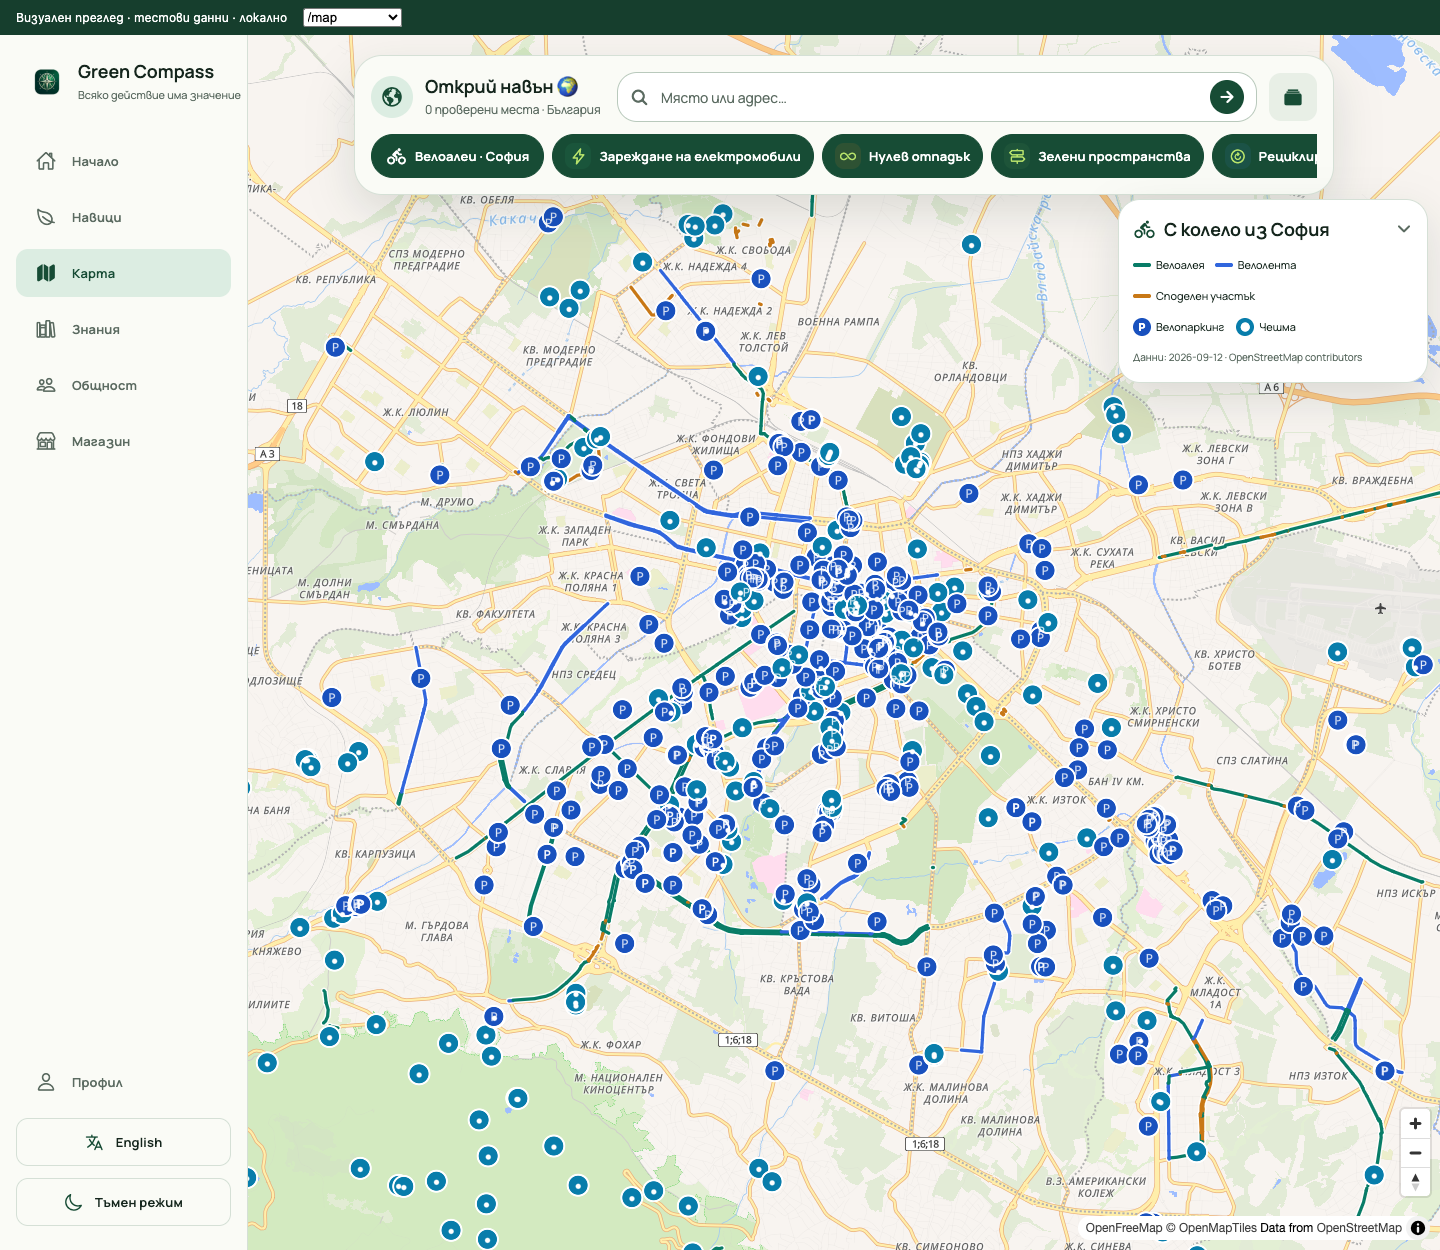
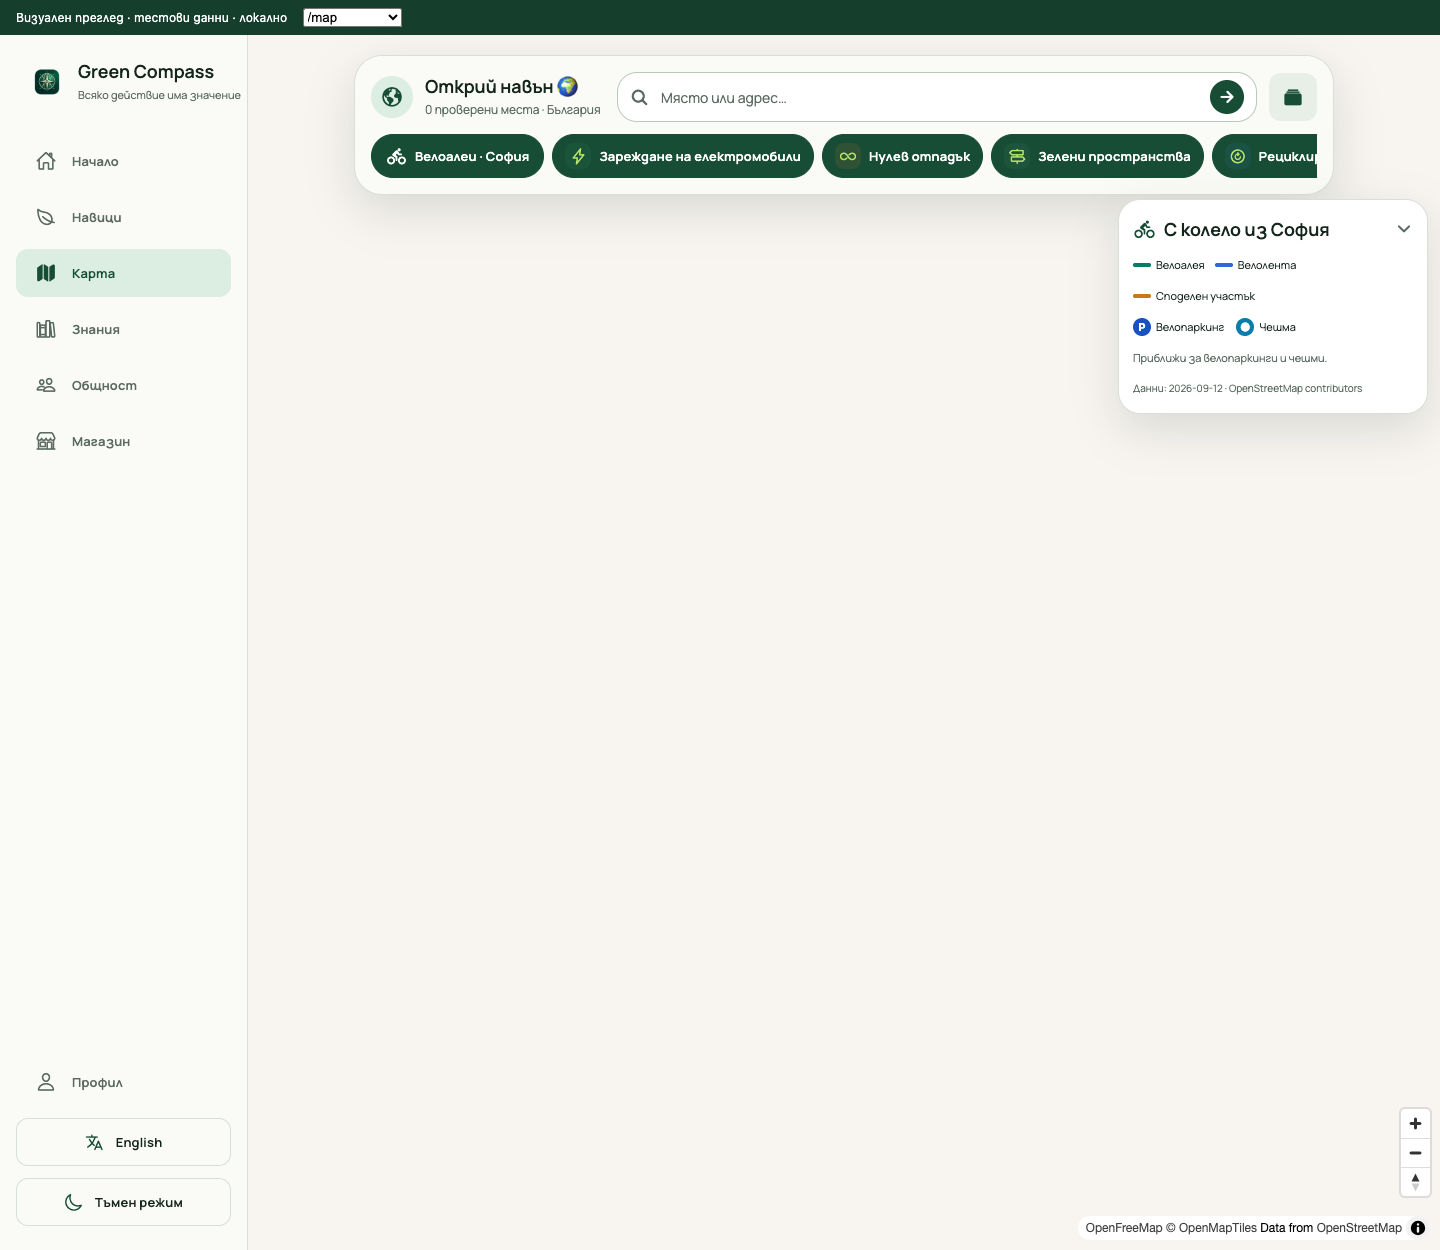
fix: keep cycling overview clear until zoomed in

diff --git a/src/components/map/CyclingPanel.tsx b/src/components/map/CyclingPanel.tsx
@@ -18,6 +18,7 @@ export default function CyclingPanel({ selected, showPlaces, onTogglePlaces, onC
     <Pressable accessibilityRole="button" accessibilityState={{ expanded }} accessibilityLabel={t('Cycling map legend and details', 'Легенда и подробности за велокартата')} onPress={() => setExpanded(value => !value)} style={{ minHeight: 30, flexDirection: 'row', alignItems: 'center', gap: 8 }}><Ionicons name="bicycle" size={23} color={theme.colors.primary} /><Text style={[theme.typography.h3, { color: theme.colors.text, flex: 1 }]}>{t('Sofia by bike', 'С колело из София')}</Text><Ionicons name={expanded ? 'chevron-up' : 'chevron-down'} size={18} color={theme.colors.textMuted} /></Pressable>
     <View style={{ flexDirection: 'row', flexWrap: 'wrap', gap: 10 }}>{kinds.map(kind => <View key={kind} style={{ flexDirection: 'row', gap: 5, alignItems: 'center' }}><View style={{ width: 18, height: 4, borderRadius: 2, backgroundColor: CYCLING_COLORS[kind] }} /><Text style={[theme.typography.bodySmall, { fontSize: 11, color: theme.colors.text }]}>{CYCLING_LABELS[kind][locale]}</Text></View>)}</View>
     {showPlaces && placeKinds.length ? <View style={{ flexDirection: 'row', gap: 12 }}>{placeKinds.map(kind => <View key={kind} style={{ flexDirection: 'row', alignItems: 'center', gap: 5 }}><View style={{ width: 18, height: 18, borderRadius: 9, alignItems: 'center', justifyContent: 'center', backgroundColor: CYCLING_COLORS[kind] }}><Text style={{ color: '#FFFFFF', fontSize: 11, fontWeight: '700' }}>{kind === 'parking' ? 'P' : '●'}</Text></View><Text style={[theme.typography.bodySmall, { color: theme.colors.text, fontSize: 11 }]}>{CYCLING_LABELS[kind][locale]}</Text></View>)}</View> : null}
+    {showPlaces ? <Text style={[theme.typography.bodySmall, { fontSize: 11, color: theme.colors.textMuted }]}>{t('Zoom in to see parking and fountains.', 'Приближи за велопаркинги и чешми.')}</Text> : null}
     {selected ? <View style={{ paddingTop: 8, borderTopWidth: 1, borderColor: theme.colors.border, gap: 7 }}>
       <View style={{ flexDirection: 'row', alignItems: 'center', gap: 8 }}><Text style={[theme.typography.label, { color: theme.colors.text, flex: 1 }]}>{selected.properties.name || CYCLING_LABELS[selected.properties.kind][locale]}</Text><Pressable accessibilityRole="button" accessibilityLabel={t('Close details', 'Затвори подробностите')} onPress={onClearSelection} hitSlop={10}><Ionicons name="close" size={20} color={theme.colors.textMuted} /></Pressable></View>
       <Text style={[theme.typography.bodySmall, { color: theme.colors.textMuted }]}>{CYCLING_LABELS[selected.properties.kind][locale]}{selected.properties.capacity ? ` · ${selected.properties.capacity} ${t('spaces', 'места')}` : ''}</Text>

diff --git a/src/components/map/MapLibreRenderer.web.tsx b/src/components/map/MapLibreRenderer.web.tsx
@@ -99,8 +99,8 @@ export default function MapLibreRenderer(props: MapRendererProps) {
       map.addLayer({ id: 'cycling-lines', type: 'line', source: CYCLING_SOURCE, layout: { visibility, 'line-cap': 'round', 'line-join': 'round' }, paint: { 'line-color': CYCLING_LINE_COLOR as any, 'line-width': ['interpolate', ['linear'], ['zoom'], 10, 2, 15, 5] } });
       map.addSource(CYCLING_PLACES_SOURCE, { type: 'geojson', data: CYCLING_PLACES });
       const placeVisibility = latest.current.cyclingVisible && latest.current.cyclingPlacesVisible !== false ? 'visible' : 'none';
-      map.addLayer({ id: 'cycling-places', type: 'circle', source: CYCLING_PLACES_SOURCE, minzoom: 12, layout: { visibility: placeVisibility }, paint: { 'circle-color': ['match', ['get', 'kind'], 'parking', '#1951BE', '#087DAB'], 'circle-radius': 10, 'circle-stroke-color': '#FFFFFF', 'circle-stroke-width': 2 } });
-      map.addLayer({ id: 'cycling-place-labels', type: 'symbol', source: CYCLING_PLACES_SOURCE, minzoom: 12, layout: { visibility: placeVisibility, 'text-font': ['Noto Sans Regular'], 'text-field': ['match', ['get', 'kind'], 'parking', 'P', '●'], 'text-size': 12, 'text-allow-overlap': true }, paint: { 'text-color': '#FFFFFF' } });
+      map.addLayer({ id: 'cycling-places', type: 'circle', source: CYCLING_PLACES_SOURCE, minzoom: 14, layout: { visibility: placeVisibility }, paint: { 'circle-color': ['match', ['get', 'kind'], 'parking', '#1951BE', '#087DAB'], 'circle-radius': 10, 'circle-stroke-color': '#FFFFFF', 'circle-stroke-width': 2 } });
+      map.addLayer({ id: 'cycling-place-labels', type: 'symbol', source: CYCLING_PLACES_SOURCE, minzoom: 14, layout: { visibility: placeVisibility, 'text-font': ['Noto Sans Regular'], 'text-field': ['match', ['get', 'kind'], 'parking', 'P', '●'], 'text-size': 12, 'text-allow-overlap': true }, paint: { 'text-color': '#FFFFFF' } });
       map.addSource(LOCATIONS_SOURCE, { type: 'geojson', data: locationsToFeatureCollection(latest.current.locations), cluster: true, clusterRadius: 54, clusterMaxZoom: 13 });
       map.addLayer({ id: 'location-clusters', type: 'circle', source: LOCATIONS_SOURCE, filter: ['has', 'point_count'], paint: { 'circle-color': ['step', ['get', 'point_count'], '#76D49B', 25, '#B8E36B', 60, '#F0B15D'], 'circle-radius': ['step', ['get', 'point_count'], 19, 25, 24, 60, 29], 'circle-stroke-width': 3, 'circle-stroke-color': '#FFFFFF' } });
       map.addLayer({ id: 'cluster-count', type: 'symbol', source: LOCATIONS_SOURCE, filter: ['has', 'point_count'], layout: { 'text-field': ['get', 'point_count_abbreviated'], 'text-size': 13 }, paint: { 'text-color': '#0B1711' } });

diff --git a/src/components/map/MapLibreRenderer.native.tsx b/src/components/map/MapLibreRenderer.native.tsx
@@ -85,8 +85,8 @@ export default function MapLibreRenderer(props: MapRendererProps) {
           <LineLayer id="cycling-lines" style={{ lineColor: CYCLING_LINE_COLOR as any, lineWidth: ['interpolate', ['linear'], ['zoom'], 10, 2, 15, 5], lineCap: 'round', lineJoin: 'round' }} />
         </ShapeSource>
         {props.cyclingPlacesVisible !== false ? <ShapeSource id="green-compass-cycling-places" shape={CYCLING_PLACES} hitbox={{ width: 32, height: 32 }} onPress={event => { const id = event.features[0]?.properties?.id; if (id) props.onCyclingFeaturePress?.(String(id)); }}>
-          <CircleLayer id="cycling-places" minZoomLevel={12} style={{ circleColor: ['match', ['get', 'kind'], 'parking', '#1951BE', '#087DAB'], circleRadius: 10, circleStrokeColor: '#FFFFFF', circleStrokeWidth: 2 }} />
-          <SymbolLayer id="cycling-place-labels" minZoomLevel={12} style={{ textFont: ['Noto Sans Regular'], textField: ['match', ['get', 'kind'], 'parking', 'P', '●'], textSize: 12, textColor: '#FFFFFF', textAllowOverlap: true }} />
+          <CircleLayer id="cycling-places" minZoomLevel={14} style={{ circleColor: ['match', ['get', 'kind'], 'parking', '#1951BE', '#087DAB'], circleRadius: 10, circleStrokeColor: '#FFFFFF', circleStrokeWidth: 2 }} />
+          <SymbolLayer id="cycling-place-labels" minZoomLevel={14} style={{ textFont: ['Noto Sans Regular'], textField: ['match', ['get', 'kind'], 'parking', 'P', '●'], textSize: 12, textColor: '#FFFFFF', textAllowOverlap: true }} />
         </ShapeSource> : null}
       </> : null}
       <ShapeSource

diff --git a/docs/reviews/2026-09-12-validation.md b/docs/reviews/2026-09-12-validation.md
@@ -37,7 +37,7 @@
 
 В проверените десет основни изгледа при 1440 и 390 px всички изображения се заредиха; ширината на документа съвпада с прозореца. Хоризонталните списъци с категории остават умишлено превъртащи се. Проверени са също зрелият пейзаж на екосистемата, видов профил и тъмна тема на общността. След визуалния преглед са поправени изрязването на илюстрациите на телефон, припокриването на плаващите контроли, размерът на дългото заглавие на дневния урок и контрастът на иконите в тъмна тема.
 
-Картата в прегледа използва действителния MapLibre компонент, базовата карта от OpenFreeMap и реалните 1799 картографски обекта от OpenStreetMap. Проверено е зареждането на базовата карта и слоя. При проверката е открит липсващ шрифт за означенията; зададен е Noto Sans Regular, предоставян от използвания доставчик. Автоматичният тест на адресното търсене използва заместена услуга за геокодиране.
+Картата в прегледа използва действителния MapLibre компонент, базовата карта от OpenFreeMap и реалните 1799 картографски обекта от OpenStreetMap. Проверени са зареждането на базовата карта и слоя, отварянето на подробности за велопаркинг и скриването на точковите обекти при запазване на линиите. Точковите обекти се показват при приближаване, за да не претрупват общия изглед. При проверката е открит липсващ шрифт за означенията; зададен е Noto Sans Regular, предоставян от използвания доставчик. Автоматичният тест на адресното търсене използва заместена услуга за геокодиране.
 
 При директно отваряне на защитен екран в действителния локален уеб export е наблюдавано пренасочване към вход. Без локален Turnstile ключ формата правилно съобщава, че входът с имейл е недостъпен в тази среда.
 

diff --git a/docs/reviews/2026-09-12-product-design-bg.md b/docs/reviews/2026-09-12-product-design-bg.md
@@ -61,7 +61,7 @@
 - В „Карта“ има видим бутон **„Велоалеи · София“**, който включва слоя и премества изгледа към града.
 - Отделни цветове за велоалеи, велоленти и споделени участъци. Споделеният участък не се представя като отделена велоалея.
 - Включени са 1137 картографски отсечки: 554 от тип велоалея, 404 велоленти и 179 споделени участъци. Това са отсечки в източника, не 1137 отделни цялостни маршрута.
-- Допълнително 366 велопаркинга и 296 чешми за питейна вода, с възможност за скриване на тези обозначения. Наличността на вода на място не е проверена.
+- Допълнително 366 велопаркинга и 296 чешми за питейна вода. Обозначенията се появяват при приближаване, за да не закриват велоалеите в общия изглед; могат и да се скриват. Наличността на вода на място не е проверена.
 - Докосването на линия или място показва типа, името и капацитета, ако са налични, както и връзка към оригиналния обект.
 - Данните от OpenStreetMap са извлечени на 12.09.2026 г. и са включени в приложението. Не се изпраща нова заявка към Overpass при всяко включване на слоя. Базовата карта продължава да зависи от картографския доставчик.
 - Датата и източникът са видими. Временни затваряния, ремонти и непопълнени обекти може да липсват. Няма ново изчисляване на маршрути или навигация завой по завой.
